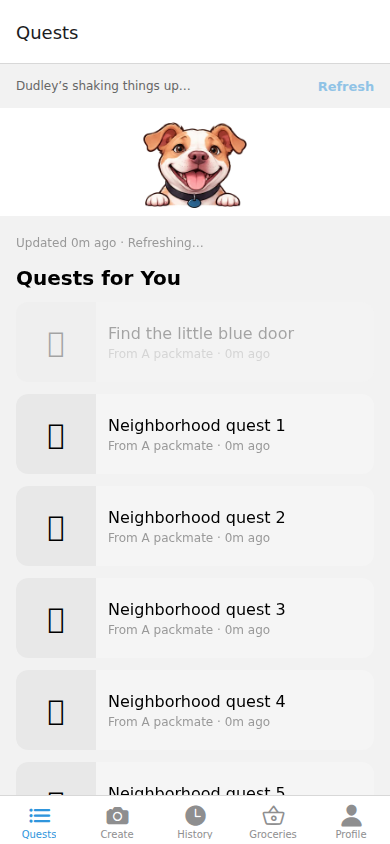
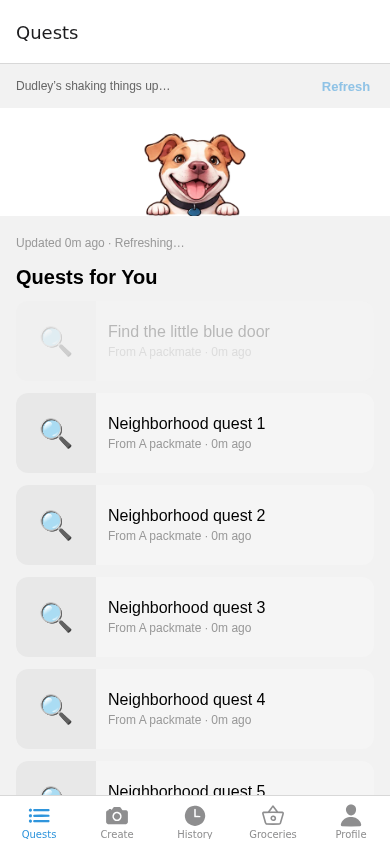
[UI] Dudley rises out from behind the list on pull-to-refresh (SHE-138)

diff --git a/components/dudley/DudleyRefresh.tsx b/components/dudley/DudleyRefresh.tsx
@@ -138,10 +138,14 @@ export function DudleyRefresh({ onRefresh, disabled = false, hidden = false, ges
         </Pressable>
       </View>}
       <Animated.View testID="dudley-refresh-reveal" pointerEvents="none" style={[styles.reveal, { height, backgroundColor: c.background }]}>
-        <Animated.View style={{ position: 'absolute', alignSelf: 'center', top: height.interpolate({ inputRange: [0, 128, 164], outputRange: [-32, 0, 18], extrapolate: 'clamp' }) }}>
+        {/* Dudley climbs and grows while the list slides down, so he rises out from behind its edge. */}
+        <Animated.View style={{ position: 'absolute', alignSelf: 'center', top: height.interpolate({ inputRange: [0, 96, 128, 164], outputRange: [48, 8, 0, -8], extrapolate: 'clamp' }) }}>
           <Animated.View testID={`dudley-refresh-frame-${frame}`} style={{ width: SIZE, height: SIZE, overflow: 'hidden', transform: [
             { translateY: pop.interpolate({ inputRange: [0, 1], outputRange: [0, -14] }) },
-            { scale: pop.interpolate({ inputRange: [0, 1], outputRange: [1, 1.12] }) },
+            { scale: Animated.multiply(
+              height.interpolate({ inputRange: [0, 128], outputRange: [0.86, 1], extrapolate: 'clamp' }),
+              pop.interpolate({ inputRange: [0, 1], outputRange: [1, 1.12] }),
+            ) },
           ] }}>
             <Image source={atlas} accessible={false} contentFit="fill" transition={0} style={{ position: 'absolute', width: SIZE * 4, height: SIZE * 2, left: -(frame % 4) * SIZE, top: -Math.floor(frame / 4) * SIZE }} />
           </Animated.View>
